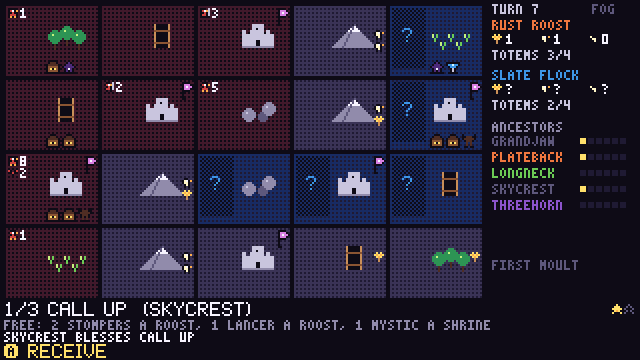
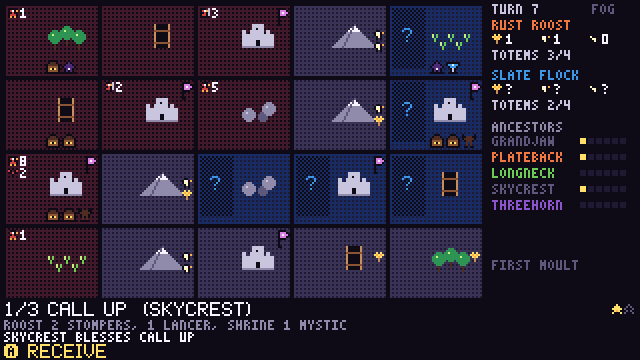
FOSSIL FEUD: shorter CALL UP line, a test that every action line fits

Changed region(s): [[0.2188, 0.8861, 0.7812, 0.9167], [0.0, 0.8861, 0.0625, 0.9167]]

diff --git a/src/games/fossilfeud/feud_rules.c b/src/games/fossilfeud/feud_rules.c
@@ -701,13 +701,12 @@ int feud_level_text(const FeudMatch *m, int side, int act, int lvl, char *buf, i
         break;
     }
     case AK_CALLUP: {
-        static const char *const W[4] = {"STOMPERS A ROOST", "LANCER A ROOST", "MYSTIC A SHRINE", "SWIFT A DUSTBATH"};
-        cat(buf, n, "FREE: ");
-        for (int i = 0; i < 4; i++) {
-            if (!l->g[i]) continue;
-            snprintf(part, sizeof part, "%s%d %s", i ? ", " : "", l->g[i], W[i]);
-            cat(buf, n, part);
-        }
+        /* free birds, grouped by building: "ROOST 2 STOMPERS, 1 LANCER, SHRINE 1 MYSTIC" */
+        snprintf(part, sizeof part, "ROOST %d STOMPERS", l->g[0]);
+        cat(buf, n, part);
+        if (l->g[1]) { snprintf(part, sizeof part, ", %d LANCER", l->g[1]); cat(buf, n, part); }
+        if (l->g[2]) { snprintf(part, sizeof part, ", SHRINE %d MYSTIC", l->g[2]); cat(buf, n, part); }
+        if (l->g[3]) { snprintf(part, sizeof part, ", BATH %d SWIFT", l->g[3]); cat(buf, n, part); }
         break;
     }
     case AK_MARCH:

diff --git a/src/games/fossilfeud/feud.c b/src/games/fossilfeud/feud.c
@@ -387,6 +387,24 @@ static int feud_query(const char *key, int *out) {
         *out = n;
         return 1;
     }
+    if (!strcmp(key, "texts_over")) {
+        /* the prayer screen's action lines ("2 CALL UP: ...") that would run off the screen */
+        int bad = 0;
+        uint8_t keep = m->fog;
+        for (int f = 0; f < 2; f++) {
+            m->fog = (uint8_t)f;
+            for (int a = 0; a < FD_ACTS; a++)
+                for (int l = 0; l < 3; l++) {
+                    char t[160], b[256];
+                    feud_level_text(m, 0, a, l, t, sizeof t);
+                    snprintf(b, sizeof b, "3 %s: %s", FEUD_ACT[a].name, t);
+                    if (tiny_width(b) > SCREEN_W - 4 || tiny_missing(b)) { bad++; fprintf(stderr, "  too long: %s\n", b); }
+                }
+        }
+        m->fog = keep;
+        *out = bad;
+        return 1;
+    }
     if (!strcmp(key, "deck_ok")) {
         /* every one of the fifteen actions dealt exactly once */
         int seen = 0;
